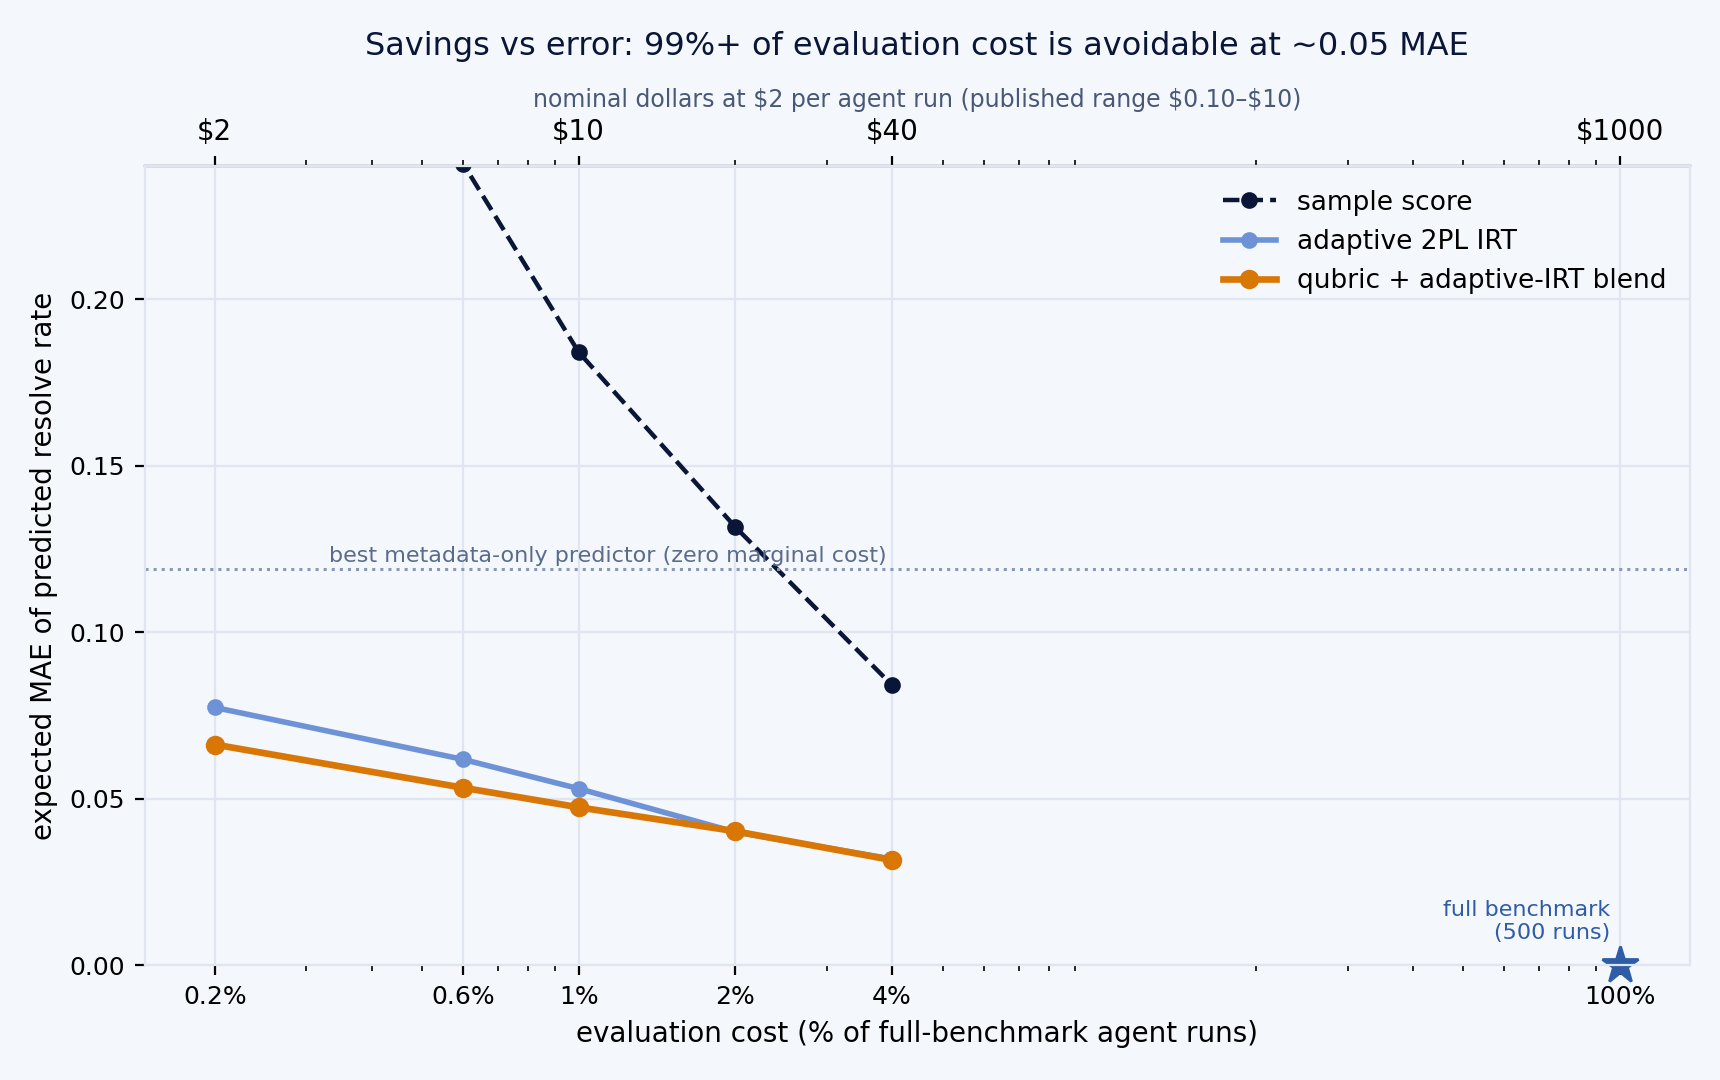
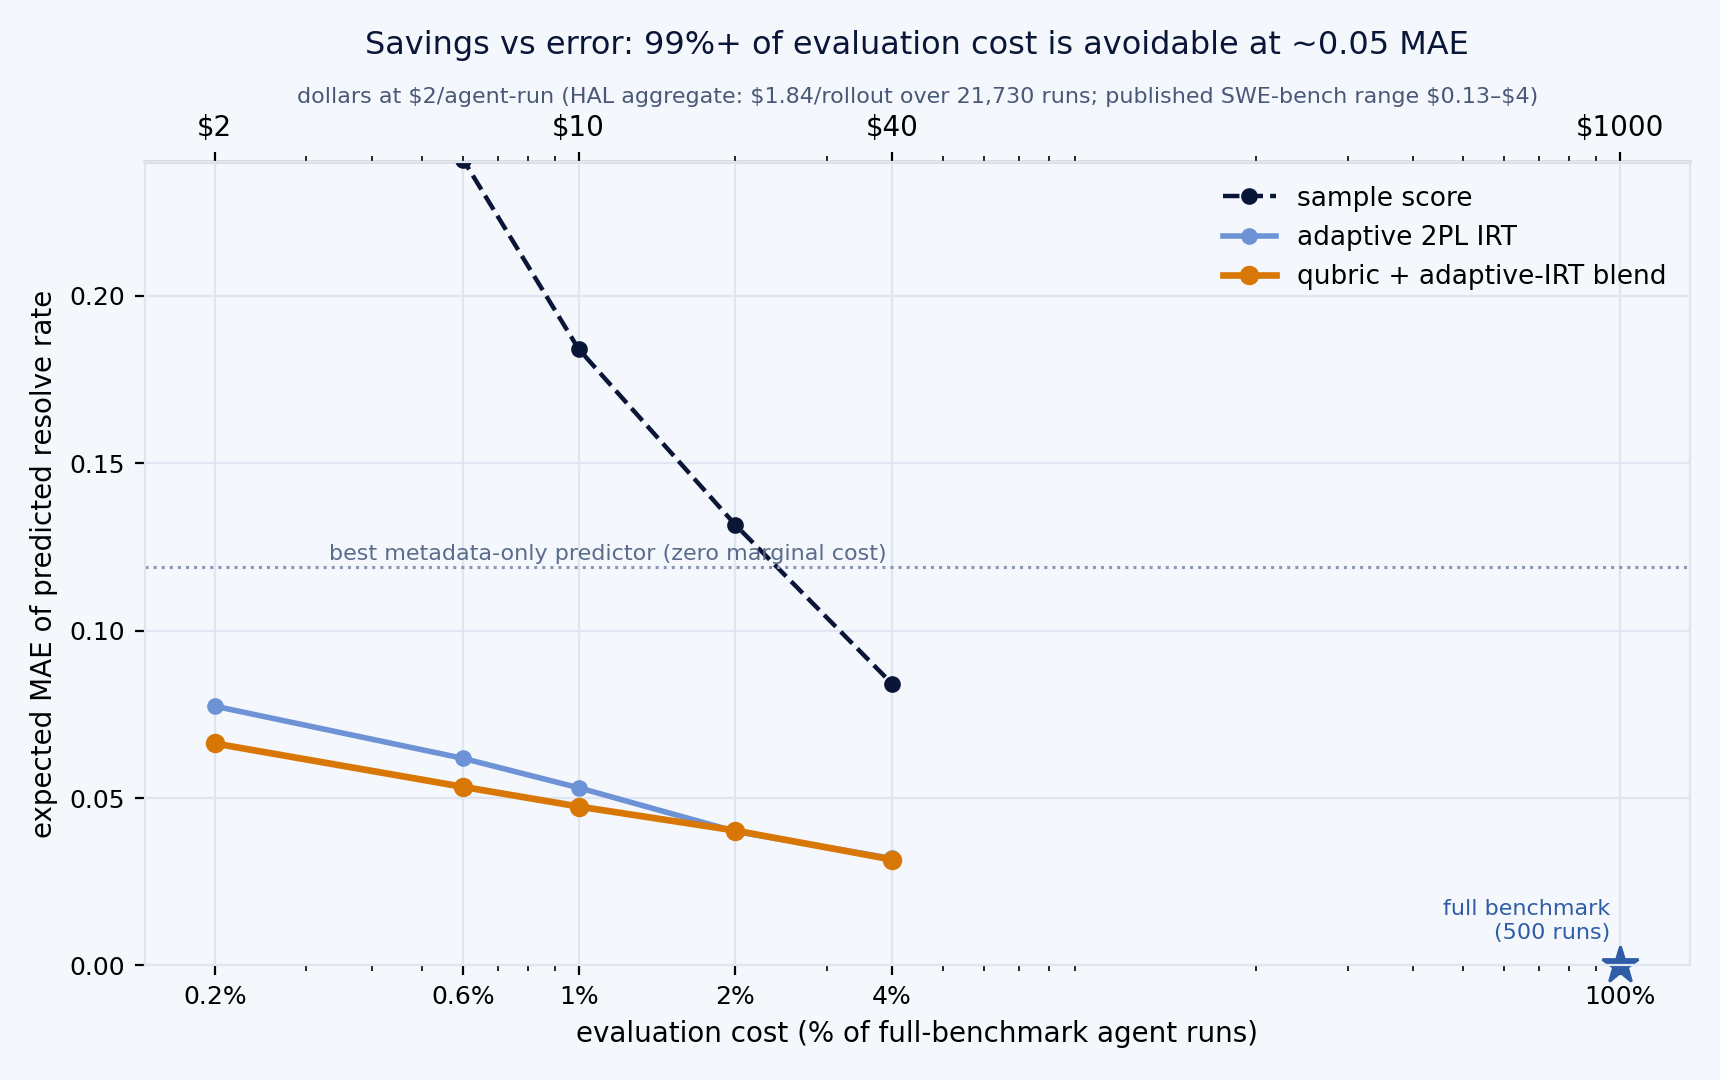
Savings figure grounded in researched costs (HAL .84/rollout; range /bin/bash.13-4/instance)
Claude-Session: https://claude.ai/code/session_01RGusFFXzoPTkSKgzzDLjNv

diff --git a/scripts/fig_savings.py b/scripts/fig_savings.py
@@ -24,7 +24,7 @@ INK, SURFACE, GRID = '#0A1638', '#f4f7fc', '#DFE6F2'
 NAVY, AMBER, SLATE = '#2E5CA6', '#D97706', '#6D93D6'
 
 MS = [1, 3, 5, 10, 20]
-COST_RUN = 2.0                       # nominal $/agent-run for the top axis
+COST_RUN = 2.0   # ~HAL aggregate $1.84/rollout (arXiv:2510.11977); range $0.13-4
 FULL = 500
 
 if os.path.exists('figures/q100_adaptive_table.json'):
@@ -87,9 +87,10 @@ sec = ax.secondary_xaxis('top',
                                     lambda c: c / (FULL * COST_RUN) * 100))
 sec.set_xticks([2, 10, 40, 1000])
 sec.set_xticklabels(['$2', '$10', '$40', '$1000'])
-sec.set_xlabel(f'nominal dollars at \\${COST_RUN:.0f} per agent run '
-               '(published range \\$0.10\u2013\\$10)', fontsize=8.5,
-               color='#4a5878')
+sec.set_xlabel(f'dollars at \\${COST_RUN:.0f}/agent-run '
+               '(HAL aggregate: \\$1.84/rollout over 21,730 runs; '
+               'published SWE-bench range \\$0.13\u2013\\$4)',
+               fontsize=8, color='#4a5878')
 
 for s in ax.spines.values():
     s.set_color(GRID)

diff --git a/FINDINGS.md b/FINDINGS.md
@@ -635,6 +635,16 @@ task; claim = best known method under our protocol vs strongest
 implemented baselines from the tinyBenchmarks/metabench/CAT lineage.
 Data: figures/q100_adaptive_blend.json.
 
+**Cost note (sourced, 2026-09-08).** Per-instance SWE-bench agent-run
+costs, published: HAL aggregate $1.84/rollout ($40K / 21,730 rollouts,
+arXiv:2510.11977); Agentless $0.70 (GPT-4o; arXiv:2407.01489); OpenHands +
+Claude 3.5 Sonnet ~$0.30, GPT-4o $0.13 (tensorfeed harness page);
+SWE-agent competitive-run cost caps $1-4/instance. Range $0.13-$4/instance;
+the savings figure's $2/run nominal ~ HAL's measured average. Full
+500-instance Verified run: ~$65-$2000 by system, typically low hundreds.
+Only 3/107 corpus submissions expose machine-readable cost fields --
+published sources are the right citation basis.
+
 ## 5. Negative results (do not re-run without new ideas)
 
 - Supervised channel-weight learning at 13 refs: five schemes all <= uniform.
